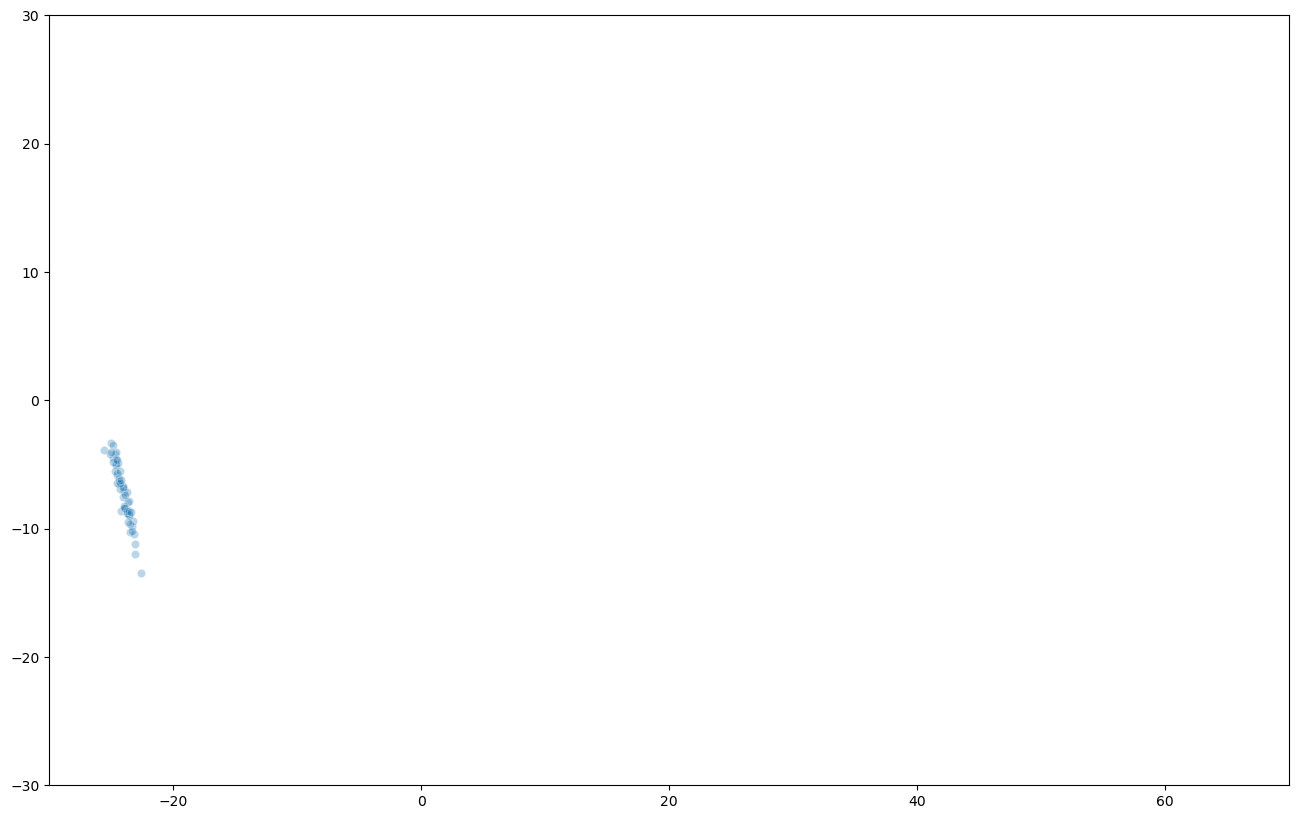
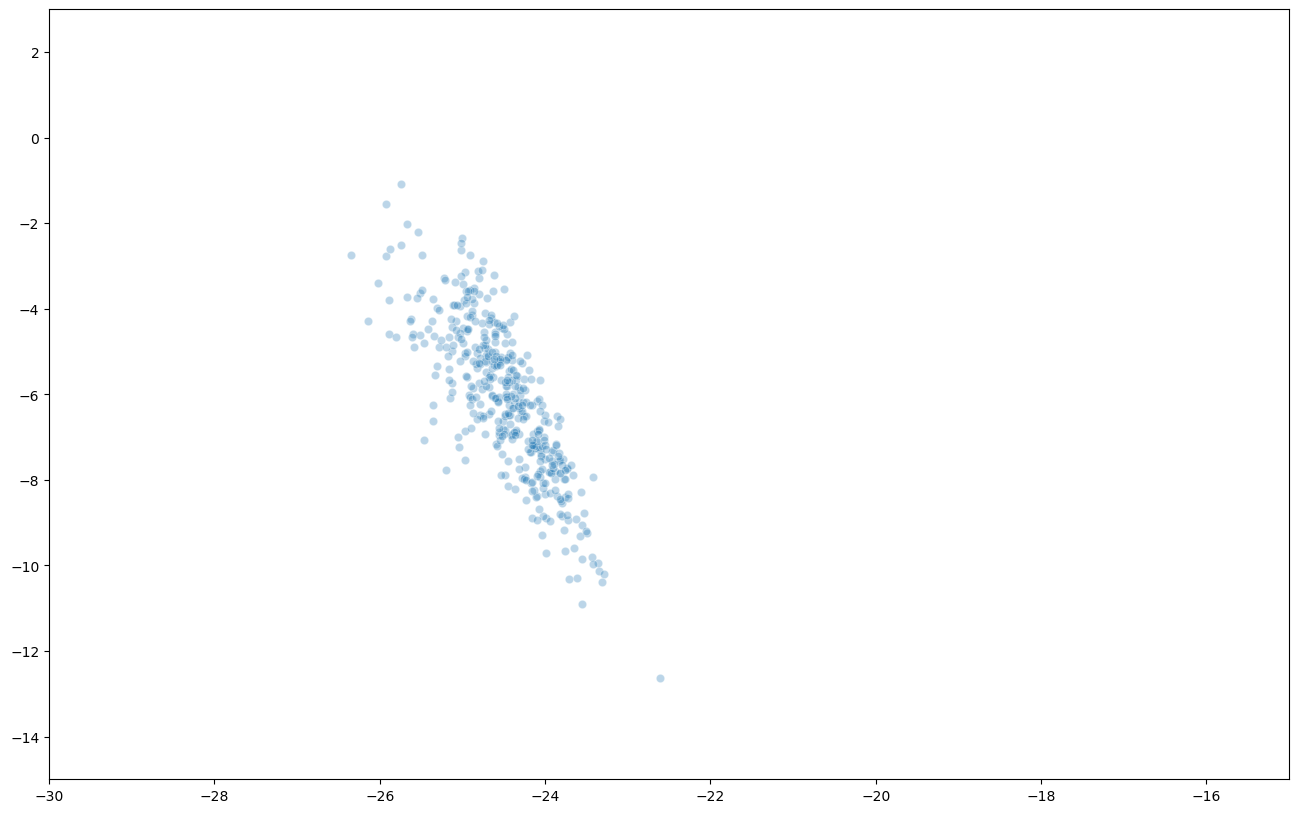
Server - change visualization

diff --git a/CLASH/FrontEnd/app/src/app/visualization/visualization.component.html b/CLASH/FrontEnd/app/src/app/visualization/visualization.component.html
@@ -73,8 +73,8 @@
     <br>
     <h4>PCA:</h4>
     <div class="pca">
-      <img src="assets/images/pca_visualization.jpeg"  style="width: 45%;">
-      <!-- <img [src]="getPcaImgContent()" style="width: 60%;"> -->
+      <!-- <img src="assets/images/pca_visualization.jpeg"  style="width: 45%;"> -->
+      <img [src]="getPcaImgContent()" style="width: 60%;">
     </div>
   </div>
 

diff --git a/CLASH/BackEnd/app.py b/CLASH/BackEnd/app.py
@@ -181,9 +181,9 @@ def pca_plot(df: DataFrame, pca_file_name: Path, output_file: Path):
     x2d: DataFrame = DataFrame(pca.transform(df))
     fig = plt.figure(figsize=(16, 10))
     x_min_val = -30
-    x_max_val = 70
-    y_min_val = -30
-    y_max_val = 30
+    x_max_val = -15
+    y_min_val = -15
+    y_max_val = 2.5
     x_axis_range = [np.floor(x_min_val), np.ceil(x_max_val)]
     y_axis_range = [np.floor(y_min_val), np.ceil(y_max_val)]
 
@@ -244,7 +244,8 @@ def seed_type_plot(d: DataFrame, output_file: Path):
     res_df = res_df.astype("int")
     fig, ax = plt.subplots()
 
-    res_df.plot(kind='bar')
+    my_colors = list(["#34495e", "#e74c3c", "#92CA91"])
+    res_df.plot(kind='bar', color=my_colors)
     plt.legend(["Low density", "Medium density", "High density"],
                loc='upper left', bbox_to_anchor=(1, 1), ncol=1)
     plt.xticks(rotation=0)
